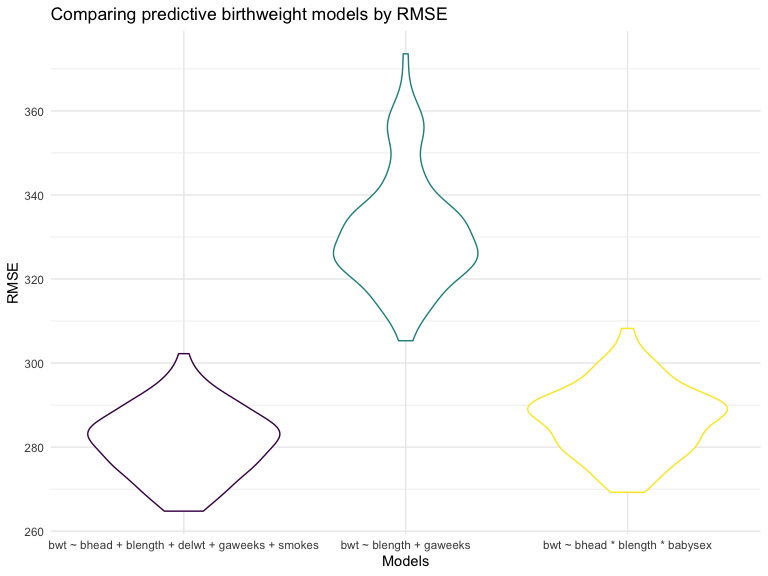
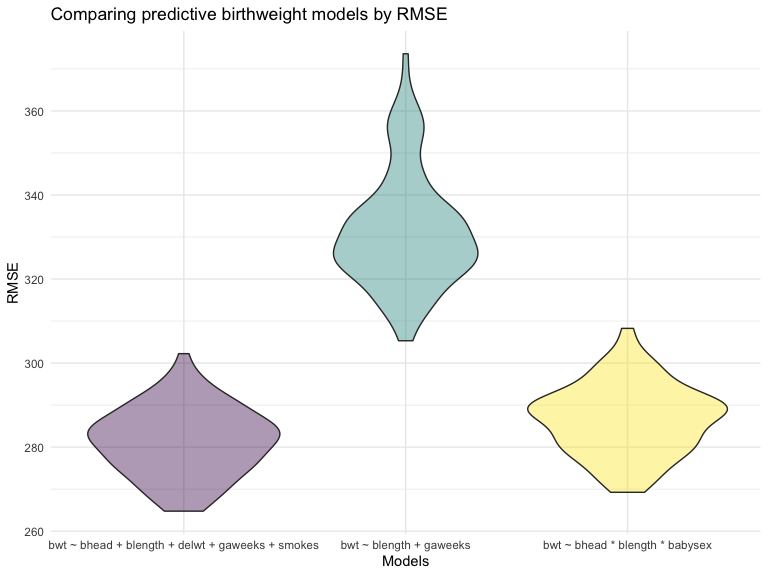
updated problem 1

Changed region(s): [[0.4375, 0.0938, 0.625, 0.5938], [0.0938, 0.5938, 0.375, 0.9062], [0.6875, 0.5625, 0.9688, 0.875]]

diff --git a/p8105_hw6_kd2640.md b/p8105_hw6_kd2640.md
@@ -62,6 +62,8 @@ birthweight =
   select(-pnumlbw, -pnumsga)
 ```
 
+The `birthweight` dataset has 4342 and 18 after I removed two of the columns `previous number of low birthweight babies(pnumlbw)` and `number of of prior small for gestational age babies(pnumsga)`. I removed these two variables because when I looked through the dataset I notice that all valvues for these columns were `0` so I felt there wasn't a point in having these variables in the dataset.
+
 ### Problem 1.1
 
 Propose a regression model for birthweight. This model may be based on a hypothesized structure for the factors that underly birthweight, on a data-driven model-building process, or a combination of the two. Describe your modeling process and show a plot of model residuals against fitted values – use add\_predictions and add\_residuals in making this plot.
@@ -251,8 +253,8 @@ cv_birthwt %>%
            bwt_model2 = "bwt ~ blength + gaweeks",
           bwt_model3 = "bwt ~ bhead * blength * babysex"), 
          model = fct_inorder(model)) %>% 
-  ggplot(aes(x = model, y = rmse, color = model)) + 
-  geom_violin() +
+  ggplot(aes(x = model, y = rmse, fill = model)) + 
+  geom_violin(alpha = .4) +
   theme(legend.position = "none") +
   labs(
         title = "Comparing predictive birthweight models by RMSE",
